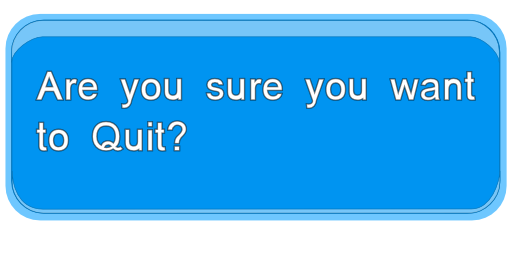
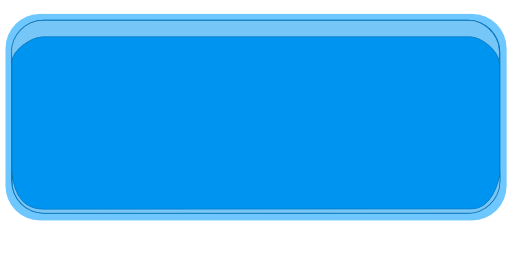
extracted button handler of the example and changed to use a label

diff --git a/prototypes-core/src/main/java/com/gemserk/prototypes/gui/DialogHideShowPrototype.java b/prototypes-core/src/main/java/com/gemserk/prototypes/gui/DialogHideShowPrototype.java
@@ -4,6 +4,7 @@ import com.badlogic.gdx.Gdx;
 import com.badlogic.gdx.graphics.GL10;
 import com.badlogic.gdx.graphics.Texture;
 import com.badlogic.gdx.graphics.Texture.TextureFilter;
+import com.badlogic.gdx.graphics.g2d.BitmapFont;
 import com.badlogic.gdx.graphics.g2d.Sprite;
 import com.badlogic.gdx.graphics.g2d.SpriteBatch;
 import com.gemserk.animation4j.gdx.converters.LibgdxConverters;
@@ -24,6 +25,41 @@ public class DialogHideShowPrototype extends GameStateImpl {
 	public static final ControlPositionConverter controlPositionConverter = new ControlPositionConverter();
 	public static final ImageButtonSizeConverter imageButtonSizeConverter = new ImageButtonSizeConverter();
 
+	public static class ResizeButtonHandler extends ButtonHandler {
+		
+		@Override
+		public void onOver(Control control) {
+			ImageButton imageButton = (ImageButton) control;
+			Synchronizers.transition(Transitions.mutableTransition(imageButton, imageButtonSizeConverter) //
+					.end(0.15f, 108f, 108f) //
+					.build());
+		}
+
+		@Override
+		public void onLeave(Control control) {
+			ImageButton imageButton = (ImageButton) control;
+			Synchronizers.transition(Transitions.mutableTransition(imageButton, imageButtonSizeConverter) //
+					.end(0.15f, 96f, 96f) //
+					.build());
+		}
+
+		@Override
+		public void onPressed(Control control) {
+			ImageButton imageButton = (ImageButton) control;
+			Synchronizers.transition(Transitions.mutableTransition(imageButton, imageButtonSizeConverter) //
+					.end(0.05f, 84f, 84f) //
+					.build());
+		}
+
+		@Override
+		public void onReleased(Control control) {
+			ImageButton imageButton = (ImageButton) control;
+			Synchronizers.transition(Transitions.mutableTransition(imageButton, imageButtonSizeConverter) //
+					.end(0.15f, 96f, 96f) //
+					.build());
+		}
+	}
+
 	private static class Gui {
 
 		public static final String Screen = "Screen";
@@ -31,6 +67,7 @@ public class DialogHideShowPrototype extends GameStateImpl {
 
 		public static final String DialogWindow = "DialogWindow";
 		public static final String DialogBackgroundImage = "DialogBackgroundImage";
+		public static final String DialogText = "DialogText";
 
 		public static final String ButtonOk = "ButtonOk";
 		public static final String ButtonCross = "ButtonCross";
@@ -72,6 +109,15 @@ public class DialogHideShowPrototype extends GameStateImpl {
 				.center(0.5f, 0.5f) //
 				.color(1f, 1f, 1f, 1f) //
 				.build());
+		
+		BitmapFont bitmapFont = new BitmapFont(Gdx.files.internal("data/fonts/purisa-24.fnt"), Gdx.files.internal("data/fonts/purisa-24.png"), false);
+		
+		dialogWindow.add(GuiControls.label("Are you sure\n you want to Quit?").id(Gui.DialogText) //
+				.position(0f, 0f) //
+				.center(0.5f, 0.75f) //
+				.font(bitmapFont) //
+				.color(1f, 1f, 1f, 1f) //
+				.build());
 
 		Texture buttonTickTexture = new Texture(Gdx.files.internal("gui/button-tick.png"));
 		buttonTickTexture.setFilter(TextureFilter.Linear, TextureFilter.Linear);
@@ -83,38 +129,11 @@ public class DialogHideShowPrototype extends GameStateImpl {
 				.center(0.5f, 0.5f) //
 				.size(96f, 96f) //
 				.color(1f, 1f, 1f, 1f) //
-				.handler(new ButtonHandler() {
-					@Override
-					public void onOver(Control control) {
-						ImageButton imageButton = (ImageButton) control;
-						Synchronizers.transition(Transitions.mutableTransition(imageButton, imageButtonSizeConverter) //
-								.end(0.15f, 108f, 108f) //
-								.build());
-					}
-					
-					@Override
-					public void onLeave(Control control) {
-						ImageButton imageButton = (ImageButton) control;
-						Synchronizers.transition(Transitions.mutableTransition(imageButton, imageButtonSizeConverter) //
-								.end(0.15f, 96f, 96f) //
-								.build());
-					}
-					
-					@Override
-					public void onPressed(Control control) {
-						ImageButton imageButton = (ImageButton) control;
-						Synchronizers.transition(Transitions.mutableTransition(imageButton, imageButtonSizeConverter) //
-								.end(0.15f, 84f, 84f) //
-								.build());
-					}
-
+				.handler(new ResizeButtonHandler() {
 					@Override
 					public void onReleased(Control control) {
+						super.onReleased(control);
 						hideDialog();
-						ImageButton imageButton = (ImageButton) control;
-						Synchronizers.transition(Transitions.mutableTransition(imageButton, imageButtonSizeConverter) //
-								.end(0.15f, 96f, 96f) //
-								.build());
 					}
 				}).build());
 
@@ -128,38 +147,11 @@ public class DialogHideShowPrototype extends GameStateImpl {
 				.center(0.5f, 0.5f) //
 				.size(96f, 96f) //
 				.color(1f, 1f, 1f, 1f) //
-				.handler(new ButtonHandler() {
-					@Override
-					public void onOver(Control control) {
-						ImageButton imageButton = (ImageButton) control;
-						Synchronizers.transition(Transitions.mutableTransition(imageButton, imageButtonSizeConverter) //
-								.end(0.15f, 108f, 108f) //
-								.build());
-					}
-					
-					@Override
-					public void onLeave(Control control) {
-						ImageButton imageButton = (ImageButton) control;
-						Synchronizers.transition(Transitions.mutableTransition(imageButton, imageButtonSizeConverter) //
-								.end(0.15f, 96f, 96f) //
-								.build());
-					}
-					
-					@Override
-					public void onPressed(Control control) {
-						ImageButton imageButton = (ImageButton) control;
-						Synchronizers.transition(Transitions.mutableTransition(imageButton, imageButtonSizeConverter) //
-								.end(0.15f, 84f, 84f) //
-								.build());
-					}
-
+				.handler(new ResizeButtonHandler() {
 					@Override
 					public void onReleased(Control control) {
+						super.onReleased(control);
 						hideDialog();
-						ImageButton imageButton = (ImageButton) control;
-						Synchronizers.transition(Transitions.mutableTransition(imageButton, imageButtonSizeConverter) //
-								.end(0.15f, 96f, 96f) //
-								.build());
 					}
 				}).build());
 
